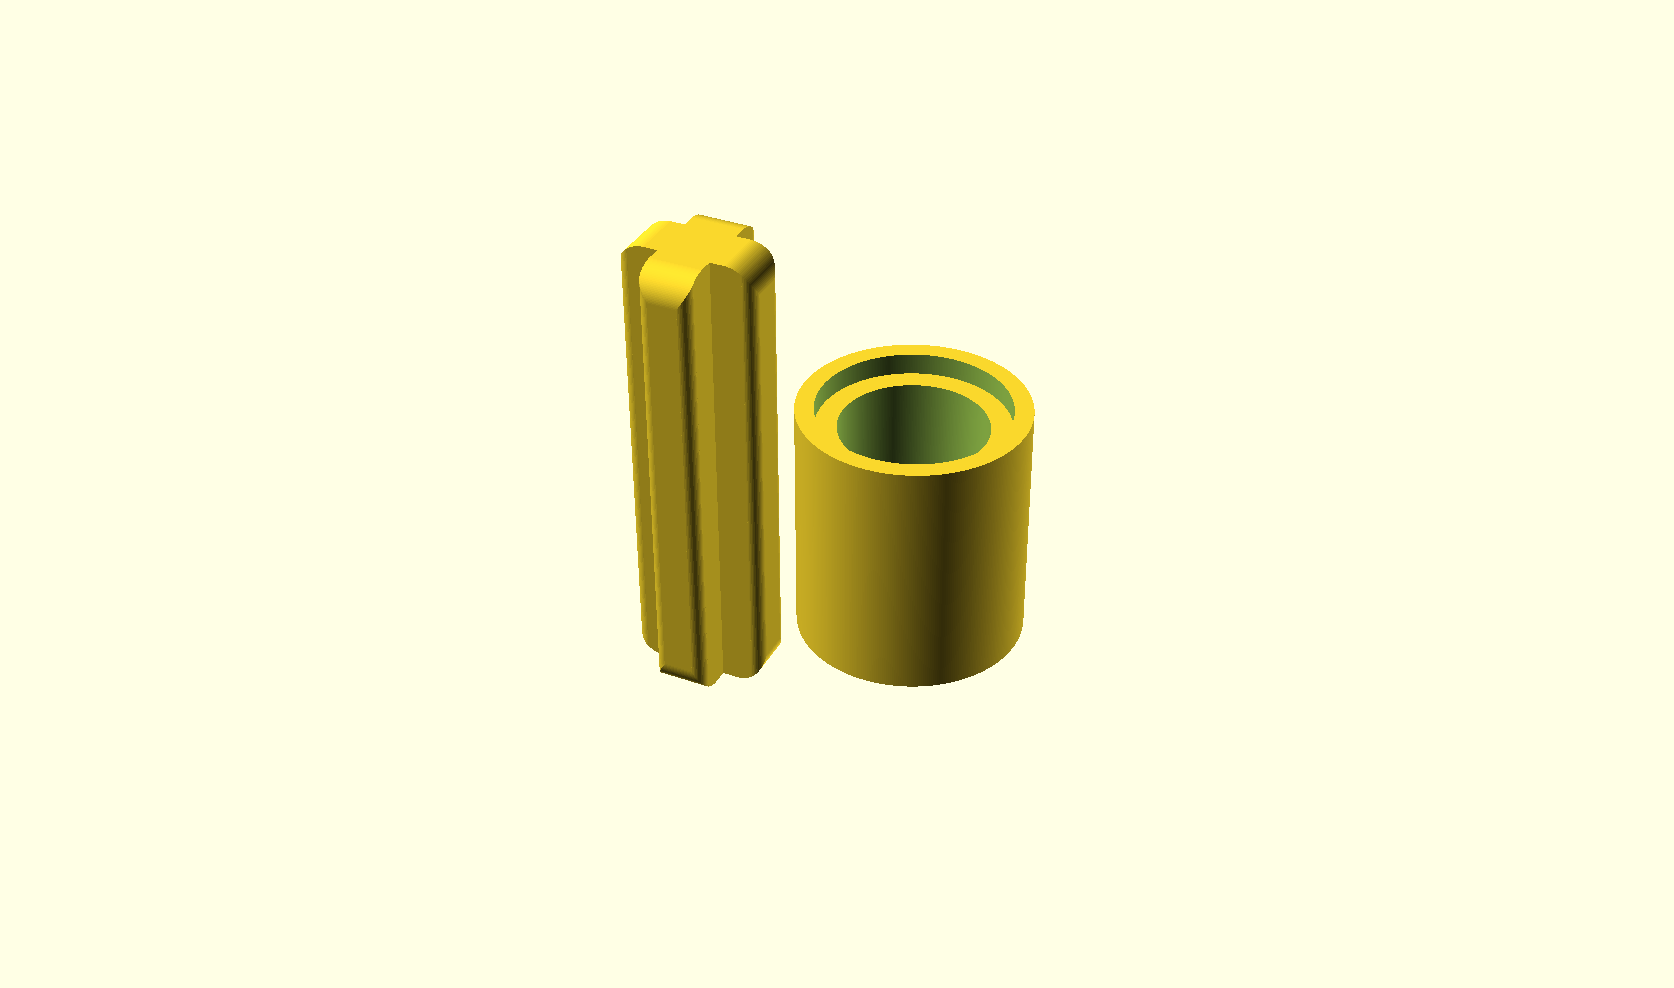
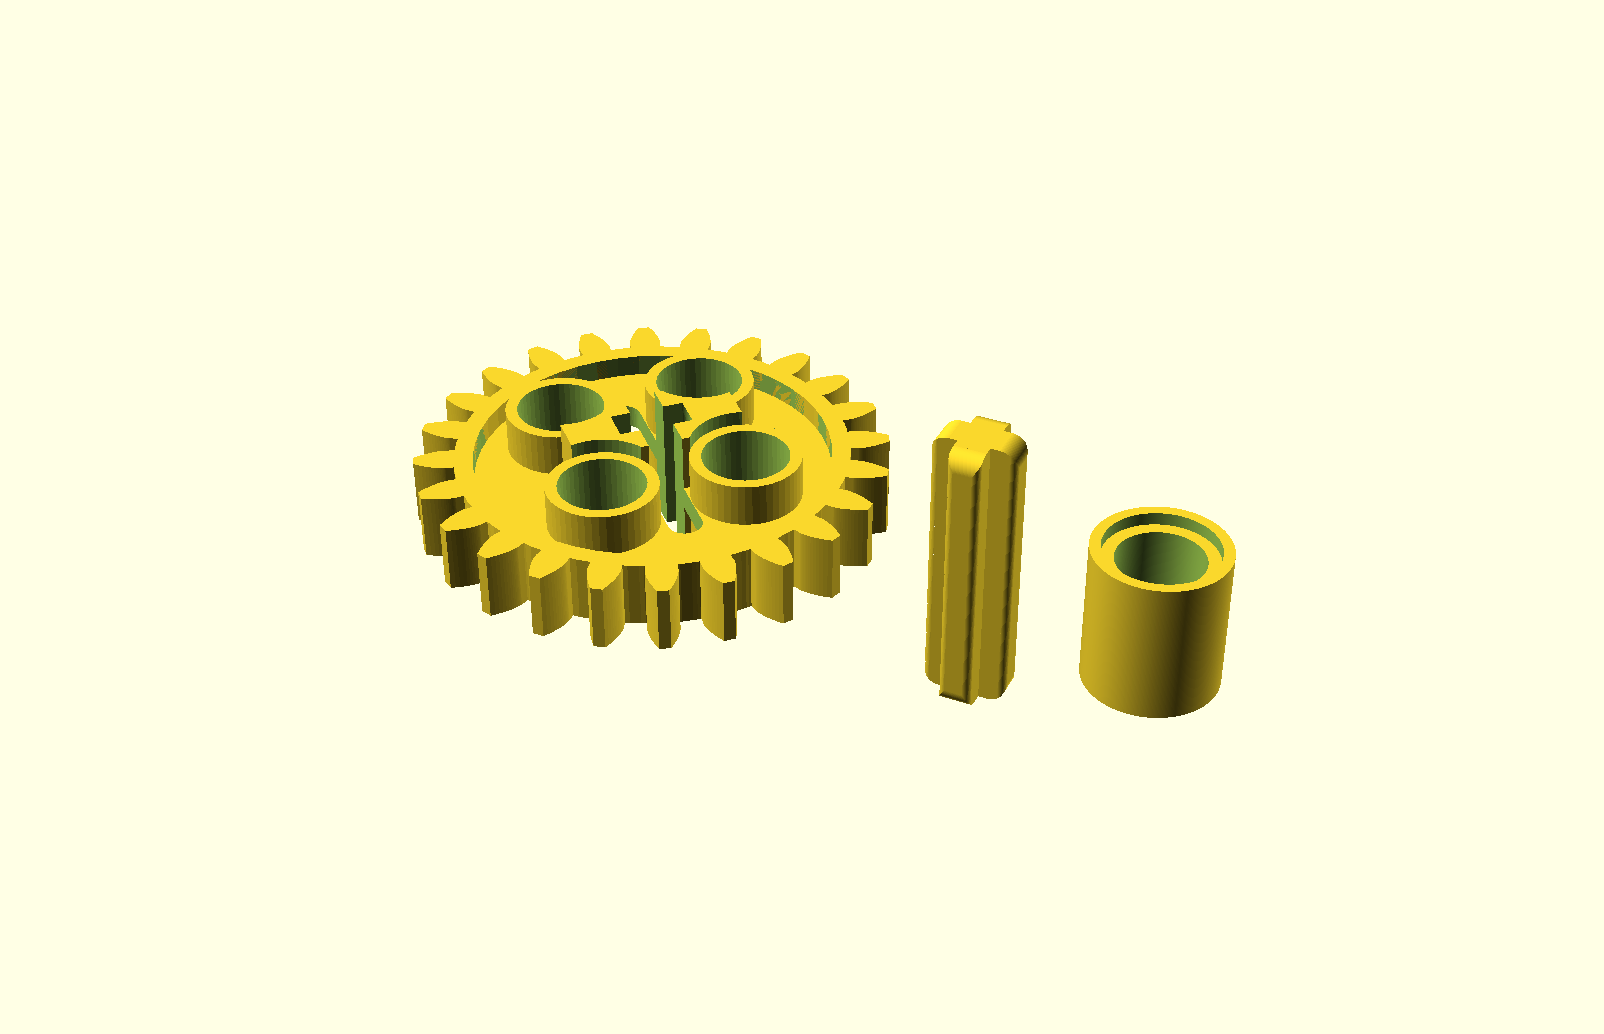
Updating readme with gear.

Changed region(s): [[0.2494, 0.2126, 0.7793, 0.6984]]

diff --git a/README.md b/README.md
@@ -1,6 +1,6 @@
 # Technic.scad
 
-An OpenSCAD Technic-compatible piece generator. It currently supports generation of axles and pin connectors.
+An OpenSCAD Technic-compatible piece generator. It currently supports generation of axles, pin connectors, and 24-tooth gears.
 
 ![The default ouput of each Technic.scad module.](images/Technic.png)
 
